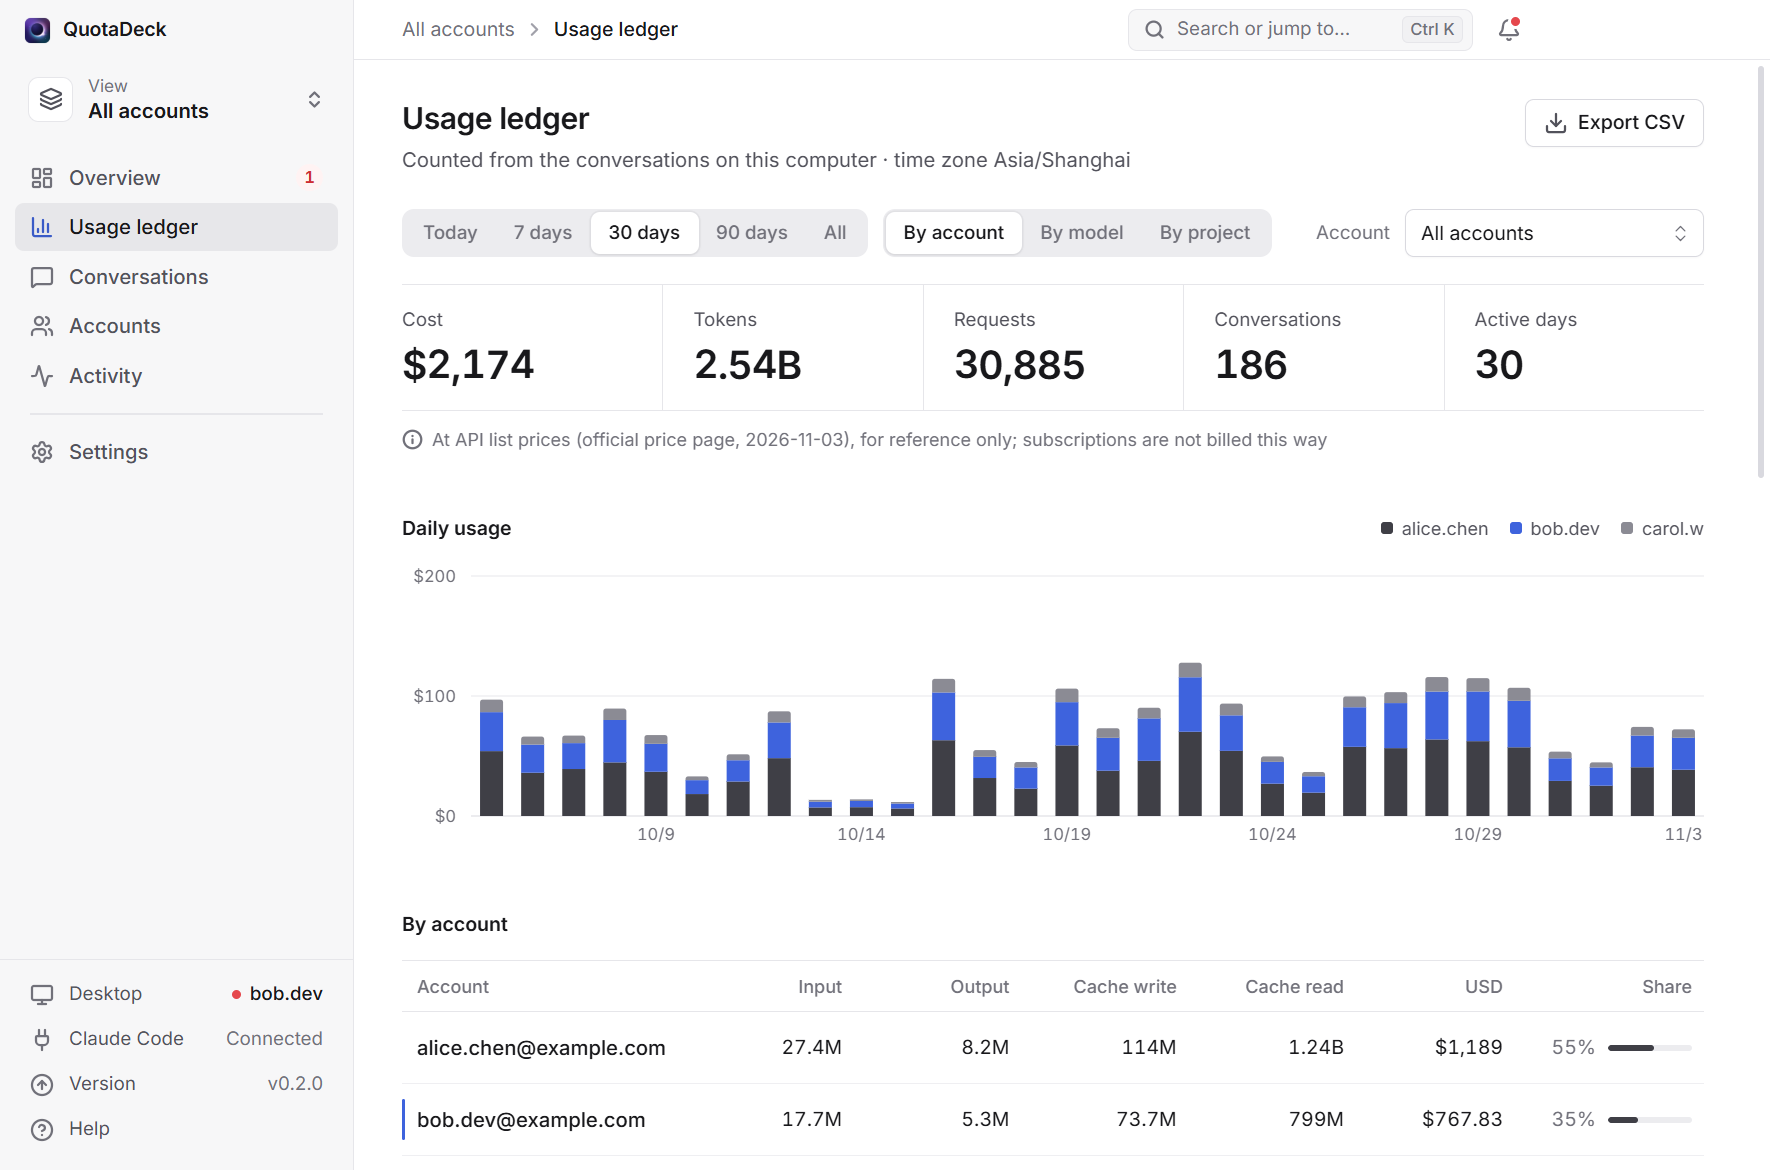
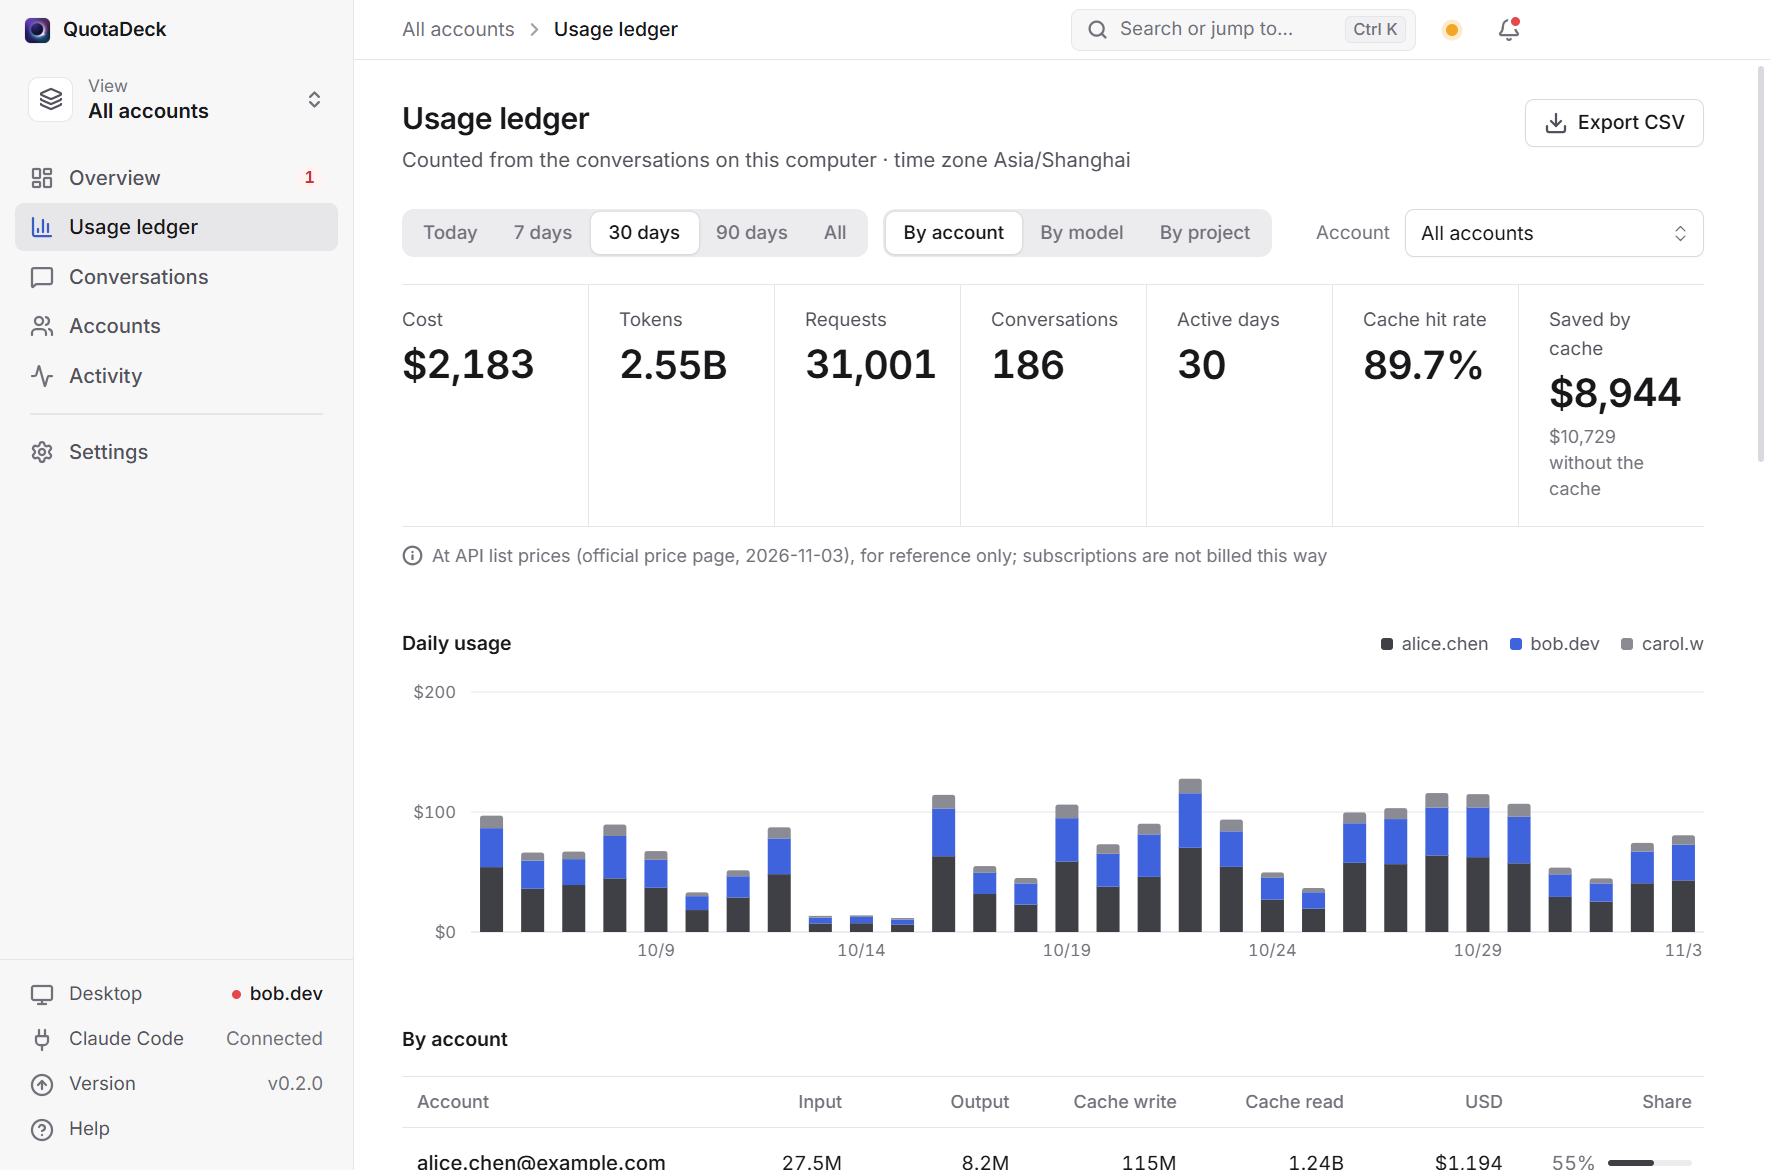
Cache savings and subscription value, official service status, settings backup; README pictures retaken

diff --git a/src/renderer/src/i18n.ts b/src/renderer/src/i18n.ts
@@ -106,6 +106,30 @@ const zh = {
   lgDaily: '每日用量',
   lgHourly: '今天每小时',
   lgByModel: '按模型',
+  lgCacheHit: '缓存命中率',
+  lgCacheSaved: '缓存省下',
+  lgNoCache: '不用缓存要 {usd}',
+  subRatio: '是订阅月费 {plan} 的 {x} 倍',
+  subExcluded: '另有 {n} 个号的套餐无法对比',
+  subTip: '本月折算 {usd}，订阅月费 {plan}（{source}，{asOf} 的价格）',
+  svcNotice: 'Claude 官方服务异常：{what}',
+  svcPage: '状态页',
+  svc_degraded_performance: '性能下降',
+  svc_partial_outage: '部分中断',
+  svc_major_outage: '严重中断',
+  svc_under_maintenance: '维护中',
+  setServiceStatus: '检查官方服务状态',
+  setServiceStatusHint: '定时读取 status.claude.com，官方出故障时在顶栏和概览里提示',
+  setBackup: '备份',
+  setBackupSub: '每天自动备份一次，保留 10 份；不包含登录凭证和账本',
+  setExport: '导出设置',
+  setExportHint: '设置、账号名字、收藏的对话、旧号的名字，存成一个 JSON 文件',
+  setExportGo: '导出…',
+  setImport: '导入设置',
+  setImportHint: '从导出的文件恢复，导入前会先把当前设置另存一份',
+  setImportGo: '导入…',
+  setImported: '已导入：{s} 项设置、{a} 个账号名字、{f} 个收藏、{o} 个旧号名字',
+  setImportDropped: '没认出、已丢掉：{list}',
   lgBackground: '后台请求',
   lgBackgroundHint: '后台请求（压缩上下文、生成标题、联网搜索等），按 Claude Code 自己记下的总数补入',
   lgWebSearches: '联网搜索 {n} 次',
@@ -704,6 +728,30 @@ const en: Dict = {
   lgDaily: 'Daily usage',
   lgHourly: 'Today by hour',
   lgByModel: 'By model',
+  lgCacheHit: 'Cache hit rate',
+  lgCacheSaved: 'Saved by cache',
+  lgNoCache: '{usd} without the cache',
+  subRatio: '{x}× the {plan} subscription',
+  subExcluded: '{n} more accounts could not be compared',
+  subTip: 'This month {usd} at API prices; subscription {plan} a month ({source}, prices of {asOf})',
+  svcNotice: 'Claude service problem: {what}',
+  svcPage: 'Status page',
+  svc_degraded_performance: 'degraded performance',
+  svc_partial_outage: 'partial outage',
+  svc_major_outage: 'major outage',
+  svc_under_maintenance: 'under maintenance',
+  setServiceStatus: 'Check Claude’s service status',
+  setServiceStatusHint: 'Reads status.claude.com from time to time and tells you in the top bar and the overview when something is down',
+  setBackup: 'Backup',
+  setBackupSub: 'Backed up automatically once a day, 10 copies kept; never your sign-in credentials or the ledger',
+  setExport: 'Export settings',
+  setExportHint: 'Settings, account names, starred conversations and old-account names in one JSON file',
+  setExportGo: 'Export…',
+  setImport: 'Import settings',
+  setImportHint: 'Restore from an exported file; the current settings are saved first',
+  setImportGo: 'Import…',
+  setImported: 'Imported {s} settings, {a} account names, {f} stars, {o} old-account names',
+  setImportDropped: 'not recognized and left out: {list}',
   lgBackground: 'Background requests',
   lgBackgroundHint: 'Background requests (compacting context, titles, web search, …), added from the totals Claude Code records itself',
   lgWebSearches: '{n} web searches',

diff --git a/src/renderer/src/pages/Overview.tsx b/src/renderer/src/pages/Overview.tsx
@@ -141,6 +141,38 @@ function NoticeBar() {
   return null
 }
 
+/** Anthropic's own status, kept apart from the usage notices: a service problem is not a used-up limit. */
+export function serviceProblem(state: AppState, t: (k: never, v?: Record<string, string | number>) => string): { tone: 'warn' | 'bad'; text: string; detail: string } | undefined {
+  const s = state.serviceStatus
+  if (!s || s.indicator === 'none') return undefined
+  const broken = s.components.filter((c) => c.status !== 'operational')
+  const name = (st: string) => t((`svc_${st}` as never)) || st
+  const first = broken[0]
+  return {
+    tone: s.indicator === 'minor' ? 'warn' : 'bad',
+    text: first ? `${first.name} ${name(first.status)}` : s.description,
+    detail: [s.description, ...broken.map((c) => `${c.name}：${name(c.status)}`)].join('\n')
+  }
+}
+
+function ServiceNotice() {
+  const { state, t, api } = useApp()
+  const p = serviceProblem(state, t as never)
+  if (!p || !state.serviceStatus) return null
+  return (
+    <div className={`notice ${p.tone} svc-notice`} role="status" title={p.detail}>
+      <IconAlert />
+      <span className="notice-text">
+        <b>{t('svcNotice', { what: p.text })}</b>
+      </span>
+      <button type="button" className="btn btn-sm btn-ghost" onClick={() => void api.openExternal(state.serviceStatus!.url)}>
+        {t('svcPage')}
+        <IconArrowRight />
+      </button>
+    </div>
+  )
+}
+
 /** Today's dollars and tokens, this month and everything recorded, for the scope. */
 function OverviewMetrics({ stats }: { stats?: UsageStats }) {
   const { t, lang, tz, now } = useApp()
@@ -152,7 +184,15 @@ function OverviewMetrics({ stats }: { stats?: UsageStats }) {
         items={[
           { label: t('metricTodayUsd'), value: formatUsd(stats?.fixed.todayUsd ?? 0), sub: t('metricAsOf', { clock: formatClock(stats?.computedAt ?? now, tz, lang, now) }) },
           { label: t('metricTodayTokens'), value: formatTokens(todayTokens), sub: t('metricRequests', { n: (today?.requests ?? 0).toLocaleString() }) },
-          { label: t('metricMonthUsd'), value: formatUsd(stats?.fixed.monthUsd ?? 0), sub: t('metricMonth', { m: monthName(now, tz, lang) }) },
+          {
+            label: t('metricMonthUsd'),
+            value: formatUsd(stats?.fixed.monthUsd ?? 0),
+            sub:
+              stats?.subscription.ratio !== undefined
+                ? `${t('subRatio', { plan: formatUsdAxis(stats.subscription.planMonthlyUsd), x: stats.subscription.ratio.toFixed(1) })}${stats.subscription.excluded > 0 ? ` · ${t('subExcluded', { n: stats.subscription.excluded })}` : ''}`
+                : t('metricMonth', { m: monthName(now, tz, lang) }),
+            tip: stats?.subscription.ratio !== undefined ? t('subTip', { usd: formatUsd(stats.subscription.monthUsd), plan: formatUsd(stats.subscription.planMonthlyUsd), asOf: stats.subscription.asOf, source: stats.subscription.source }) : undefined
+          },
           { label: t('metricAllUsd'), value: formatUsd(stats?.fixed.allTimeUsd ?? 0), sub: stats?.firstDay ? t('metricSince', { day: stats.firstDay }) : undefined }
         ]}
       />
@@ -342,6 +382,7 @@ export function Overview() {
         </div>
       </header>
 
+      <ServiceNotice />
       <NoticeBar />
       <OverviewMetrics stats={stats} />
 

diff --git a/src/renderer/src/pages/Settings.tsx b/src/renderer/src/pages/Settings.tsx
@@ -6,6 +6,7 @@ import {
   IconBell,
   IconCheck,
   IconCommand,
+  IconDownload,
   IconUpdate,
   IconEye,
   IconFolder,
@@ -140,6 +141,27 @@ export function Settings() {
   useEffect(() => setVolume(Math.round(s.soundVolume * 100)), [s.soundVolume])
 
   const [checking, setChecking] = useState(false)
+  const [imported, setImported] = useState<string | null>(null)
+  const exportSettings = async () => {
+    const res = await api.exportSettings().catch((e) => ({ ok: false, error: errMessage(e), cancelled: false, path: undefined }))
+    if (res.cancelled) return
+    if (res.ok) toast(t('exportDone', { path: res.path ?? '' }), 'ok')
+    else toast(t('errGeneric', { msg: res.error ?? '' }), 'bad')
+  }
+  const importSettings = async () => {
+    try {
+      const res = await api.importSettings()
+      if (res.cancelled) return
+      if (!res.ok) return toast(t('errGeneric', { msg: res.error ?? '' }), 'bad')
+      const a = res.applied ?? { settings: 0, accounts: 0, favorites: 0, orgLabels: 0 }
+      const line = t('setImported', { s: a.settings, a: a.accounts, f: a.favorites, o: a.orgLabels }) + (res.dropped?.length ? ` · ${t('setImportDropped', { list: res.dropped.join(', ') })}` : '')
+      setImported(line)
+      toast(line, 'ok')
+      setState(await api.getState())
+    } catch (e) {
+      toast(t('errGeneric', { msg: errMessage(e) }), 'bad')
+    }
+  }
   const info = state.update
   const updateLine = info?.available
     ? t('setUpdateAvailable', { v: info.latest ?? '' })
@@ -326,6 +348,22 @@ export function Settings() {
             <button type="button" className="btn btn-sm" disabled={checking} onClick={() => void checkNow()}>
               {checking && <Spinner />}
               {t('setCheckNowGo')}
+            </button>
+          </Row>
+          <Row label={t('setServiceStatus')} hint={t('setServiceStatusHint')}>
+            <Toggle label={t('setServiceStatus')} on={s.checkServiceStatus} onChange={(v) => void update({ checkServiceStatus: v })} />
+          </Row>
+        </Section>
+
+        <Section icon={<IconDownload size={16} />} title={t('setBackup')} sub={t('setBackupSub')}>
+          <Row label={t('setExport')} hint={t('setExportHint')}>
+            <button type="button" className="btn btn-sm" onClick={() => void exportSettings()}>
+              {t('setExportGo')}
+            </button>
+          </Row>
+          <Row label={t('setImport')} hint={imported ?? t('setImportHint')}>
+            <button type="button" className="btn btn-sm" onClick={() => void importSettings()}>
+              {t('setImportGo')}
             </button>
           </Row>
         </Section>

diff --git a/src/renderer/src/components/Shell.tsx b/src/renderer/src/components/Shell.tsx
@@ -27,6 +27,7 @@ import {
   Logo
 } from './icons'
 import { Menu, type MenuEntry } from './Menu'
+import { serviceProblem } from '../pages/Overview'
 
 const NAV: { page: Page; key: TKey; icon: (p: { size?: number }) => ReactNode }[] = [
   { page: 'dashboard', key: 'navDashboard', icon: IconGrid },
@@ -210,6 +211,18 @@ function Notifications() {
   )
 }
 
+/** Official status, only while something is wrong: amber for minor, red for major. */
+function ServiceDot() {
+  const { state, t, api } = useApp()
+  const p = serviceProblem(state, t as never)
+  if (!p || !state.serviceStatus) return null
+  return (
+    <button type="button" className="icon-btn svc-dot-btn has-tip tip-end" data-tip={p.detail} aria-label={p.detail} onClick={() => void api.openExternal(state.serviceStatus!.url)}>
+      <span className={`svc-dot ${p.tone}`} />
+    </button>
+  )
+}
+
 export function Topbar() {
   const { state, t, page, scope, openPalette } = useApp()
   const scoped = state.accounts.find((a) => a.id === scope)
@@ -227,6 +240,7 @@ export function Topbar() {
         <span>{t('cmdPlaceholder')}</span>
         <span className="kbd">{mod} K</span>
       </button>
+      <ServiceDot />
       <Notifications />
     </div>
   )

diff --git a/src/renderer/src/pages/Ledger.tsx b/src/renderer/src/pages/Ledger.tsx
@@ -361,7 +361,9 @@ function LedgerBody({ stats, group }: { stats: UsageStats; group: Group }) {
           { label: t('lgTokens'), value: formatTokens(sumTokens(total.tokens)) },
           { label: t('lgRequests'), value: total.requests.toLocaleString('en-US') },
           { label: t('lgConversations'), value: total.conversations.toLocaleString('en-US') },
-          { label: t('lgActiveDays'), value: String(total.activeDays) }
+          { label: t('lgActiveDays'), value: String(total.activeDays) },
+          { label: t('lgCacheHit'), value: `${(total.cacheHitRate * 100).toFixed(1)}%` },
+          { label: t('lgCacheSaved'), value: formatUsd(total.cacheSavingsUsd), sub: t('lgNoCache', { usd: formatUsd(total.noCacheUsd) }) }
         ]}
       />
       <div className="note">

diff --git a/src/renderer/src/styles/views.css b/src/renderer/src/styles/views.css
@@ -116,10 +116,8 @@
 }
 .metric-sub {
   font-size: 12px;
+  line-height: 1.45;
   color: var(--text-3);
-  white-space: nowrap;
-  overflow: hidden;
-  text-overflow: ellipsis;
 }
 
 /* Rolling digits for metric numbers. */
@@ -1326,4 +1324,20 @@
 }
 .meter-cell .meter-reset {
   white-space: nowrap;
+}
+
+/* ---------- Official status ---------- */
+.svc-dot {
+  width: 8px;
+  height: 8px;
+  border-radius: 50%;
+  background: var(--warn);
+  box-shadow: 0 0 0 3px color-mix(in srgb, var(--warn) 22%, transparent);
+}
+.svc-dot.bad {
+  background: var(--bad);
+  box-shadow: 0 0 0 3px color-mix(in srgb, var(--bad) 22%, transparent);
+}
+.svc-notice + .notice {
+  margin-top: -14px;
 }
